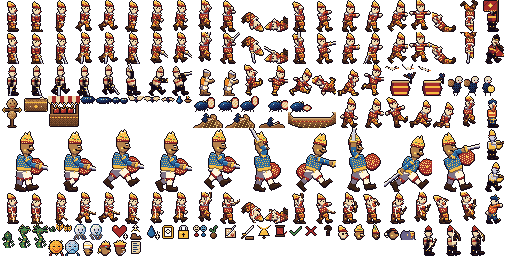
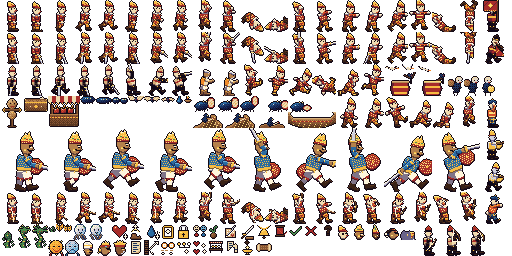
Nizhalattam: the last repairs and charms
At the Puppet Master's box: the wall jump, a second dodge, more mending
at the stalls, a place for a third charm, and stalls stocking one charm
more. Three new charms: the torn page (a room's first blow does double),
lamp soot (a torn shadow burns those near it) and the drum skin (blows
stop the world longer and strike harder). Each stall stocks two of the
five charms, chosen by the run's seed and the story.

Changed region(s): [[0.2812, 0.9375, 0.5312, 1.0]]

diff --git a/tests/test_examples.py b/tests/test_examples.py
@@ -893,9 +893,47 @@ def main():
         r, got = story('rooms.enter("s6.ooru", "s5.ooru", body) at(20, 208) fight.mai, k.health = 400, 60',
                        'if f == 10 then i.door = true end if f == 15 or f == 25 or f == 35 or f == 45 then i.jump = true end '
                        'if f == 20 or f == 30 or f == 40 then i.down_p = true end if f == 50 then i.attack = true end',
-                       'if f == 60 then dbg("bought", k.health, fight.mai, table.concat(run.charms, ","), tostring(run.sharp.Komali), tostring(rooms.shop.is_open())) end', frames=70)
+                       'if f == 60 then dbg("bought", k.health, fight.mai, table.concat(run.charms, ","), tostring(run.sharp.Komali), tostring(rooms.shop.is_open())) '
+                       '  local it = rooms.shop.ITEMS dbg("stock", #it, it[3].key .. "," .. it[4].key, it[3].price + it[4].price) end', frames=70)
+        stock = got.get("stock", ["0", "", "0"])
         t.check("nizhalattam: at the stall mai buys mending, a sharper role, and charms; B leaves",
-                got.get("bought") == ["85", "130", "bell,spool", "true", "false"], got)
+                stock[0] == "4" and got.get("bought") == ["85", str(400 - 40 - 80 - int(stock[2])), stock[1], "true", "false"], got)
+
+        # the later repairs: the wall jump, a second dodge, more mending, a
+        # third charm, a stall stocking one more; and the charms they open
+        def wall(on):
+            r, got = komali("wall", f'body.k.walljump = {on} body.place(68 * 8 + 5, 120)',
+                            "i.left = f < 21 if f == 20 then i.jump, i.a = true, true end if f > 20 and f < 40 then i.a = true end",
+                            'if f == 19 then dbg("sliding", k.wall) end if f == 22 then dbg("off", k.vy < 0 and "up" or "down", k.vx > 0 and "away" or "-") end', frames=24)
+            return got.get("sliding"), got.get("off")
+        def dodges(on):
+            r, got = komali("dodge", f'body.k.second, body.k.spare = {on}, {on} at(20, 208)',
+                            "if f == 10 or f == 33 then i.dodge = true end",
+                            'if f == 34 then dbg("again", tostring(k.dodge > 0)) end', frames=36)
+            return got.get("again")
+        t.check("nizhalattam: the wall jump (a repair) springs up and away from a wall he slides down; a second dodge follows the first",
+                wall("true") == (["-1"], ["up", "away"]) and wall("false") == (["-1"], ["down", "-"])
+                and dodges("true") == ["true"] and dodges("false") == ["false"], (wall("true"), wall("false")))
+        r, got = story('run.data.repairs.r_stock, run.data.repairs.r_charm3, run.data.repairs.r_mend = 1, 1, 1 '
+                       'rooms.enter("s6.ooru", "s5.ooru", body) at(20, 208) fight.mai, k.health = 900, 40 run.charms[1], run.charms[2] = "x", "y"',
+                       'if f == 10 then i.door = true end if f == 15 then i.jump = true end '
+                       'if f == 20 or f == 22 then i.down_p = true end if f == 25 then i.jump = true end',
+                       'if f == 30 then dbg("stall", #rooms.shop.ITEMS, k.health, #run.charms) end', frames=32)
+        t.check("nizhalattam: with the repairs, stalls stock three charms, mend 35, and a third charm can be carried",
+                got.get("stall") == ["5", "75", "3"], f"{got} {r.err[-300:]}")
+        dummies = ('local d = {} for _, s in ipairs(shadows.list) do if s.kind == "dummy" then d[#d + 1] = s end end ')
+        r, got = story('rooms.enter("s2.ooru", "s1.ooru", body) run.charms[1] = "torn" ' + dummies + 'st.d = d at(16, 208) k.face = 1',
+                       "if f == 10 or f == 40 then i.attack = true end",
+                       'if f == 30 then dbg("first", st.d[1].hp) end if f == 60 then dbg("then", st.d[1].hp) end', frames=62)
+        r2, got2 = story('rooms.enter("s2.ooru", "s1.ooru", body) run.charms[1] = "soot" ' + dummies +
+                         'd[1].hp = 1 d[2].x = d[1].x + 14 st.d = d at(16, 208) k.face = 1',
+                         "if f == 10 then i.attack = true end",
+                         'if f == 30 then dbg("burnt", tostring(st.d[1].on), st.d[2].hp) end', frames=32)
+        r3, got3 = story('run.charms[1] = "drum" fight.hit(false) dbg("drum", fight.freeze, fight.cost(10, fight.role()))', "", "", frames=3)
+        t.check("nizhalattam: the torn page doubles a room's first blow; lamp soot burns a torn shadow's neighbours; the drum skin hits longer and harder",
+                got.get("first") == ["6"] and int(got.get("then", ["9"])[0]) <= 0
+                and got2.get("burnt") == ["false", "12"] and got3.get("drum") == ["5", "12"],
+                f"{got} {got2} {got3} {r.err[-200:]} {r2.err[-200:]} {r3.err[-200:]}")
 
         r, got = story('rooms.enter("s6.ooru", "s5.ooru", body) at(20, 208) fight.mai, k.health = 10, 60',
                        'if f == 10 then i.door = true end if f == 15 then i.jump = true end',
@@ -1892,9 +1930,11 @@ def main():
                 float(got.get(k, ["999"])[0]) for k in ("hub", "boss", "forest", "vil", "sea", "aatta", "field", "elephant",
                                                         "market", "minister", "palace", "queen", "king", "after"))
         t.check("nizhalattam: the Lua heap stays within its budget in every story, and a story's code is let go after it",
-                hub < 134 and bossroom < 136 and forestroom < 140 and vilroom < 144 and searoom < 155 and aattaroom < 150
-                and fieldroom < 152 and elephantroom < 150 and marketroom < 150 and ministerroom < 155
-                and palaceroom < 159 and queenroom < 156 and kingroom < 162 and after < forestroom - 4, got)
+                hub < 138 and bossroom < 138 and forestroom < 143 and vilroom < 147 and searoom < 158 and aattaroom < 152
+                and fieldroom < 155 and elephantroom < 152 and marketroom < 152 and ministerroom < 157
+                and palaceroom < 161 and queenroom < 158 and kingroom < 165
+                # back in the Courtyard, no story's code stays (Lua's string table may have grown once: a few KB)
+                and after < hub + 7, got)
 
         if t.update:
             with open(path, "w") as f:
